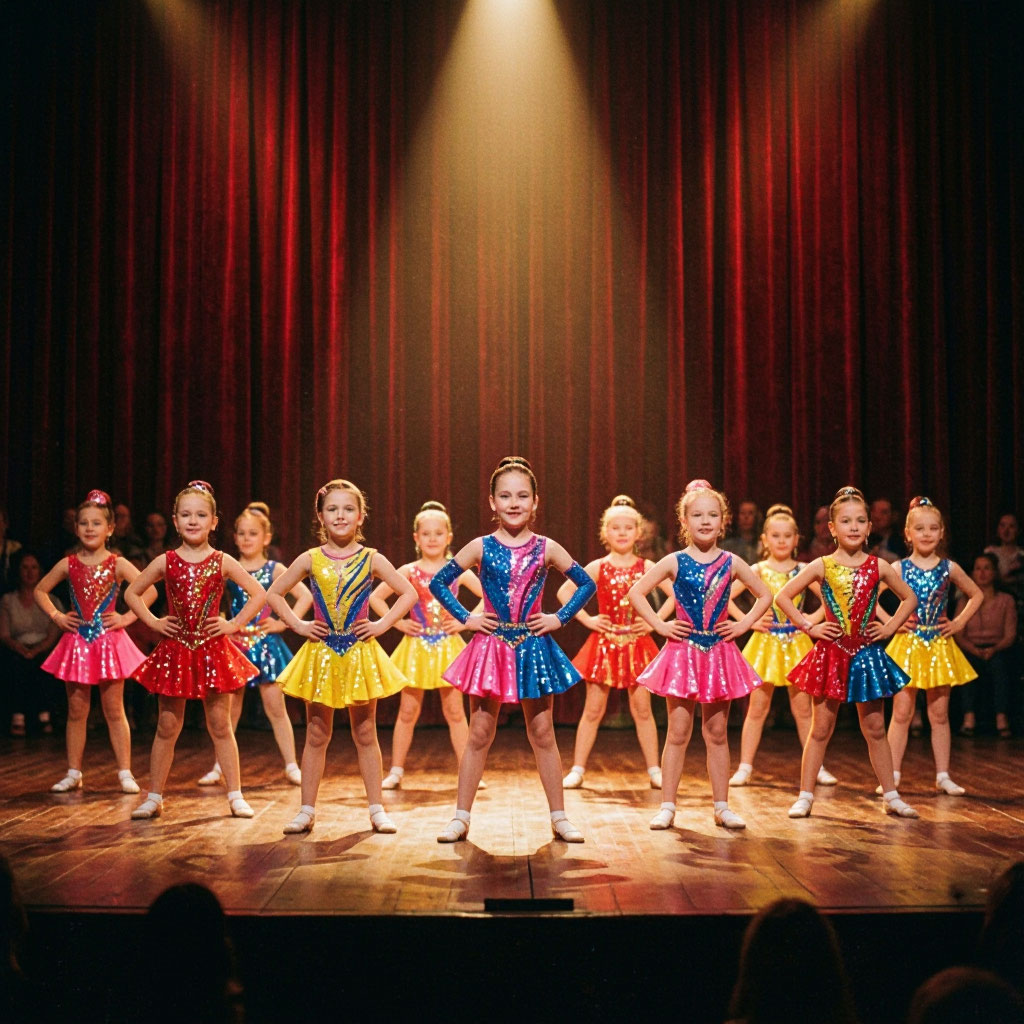
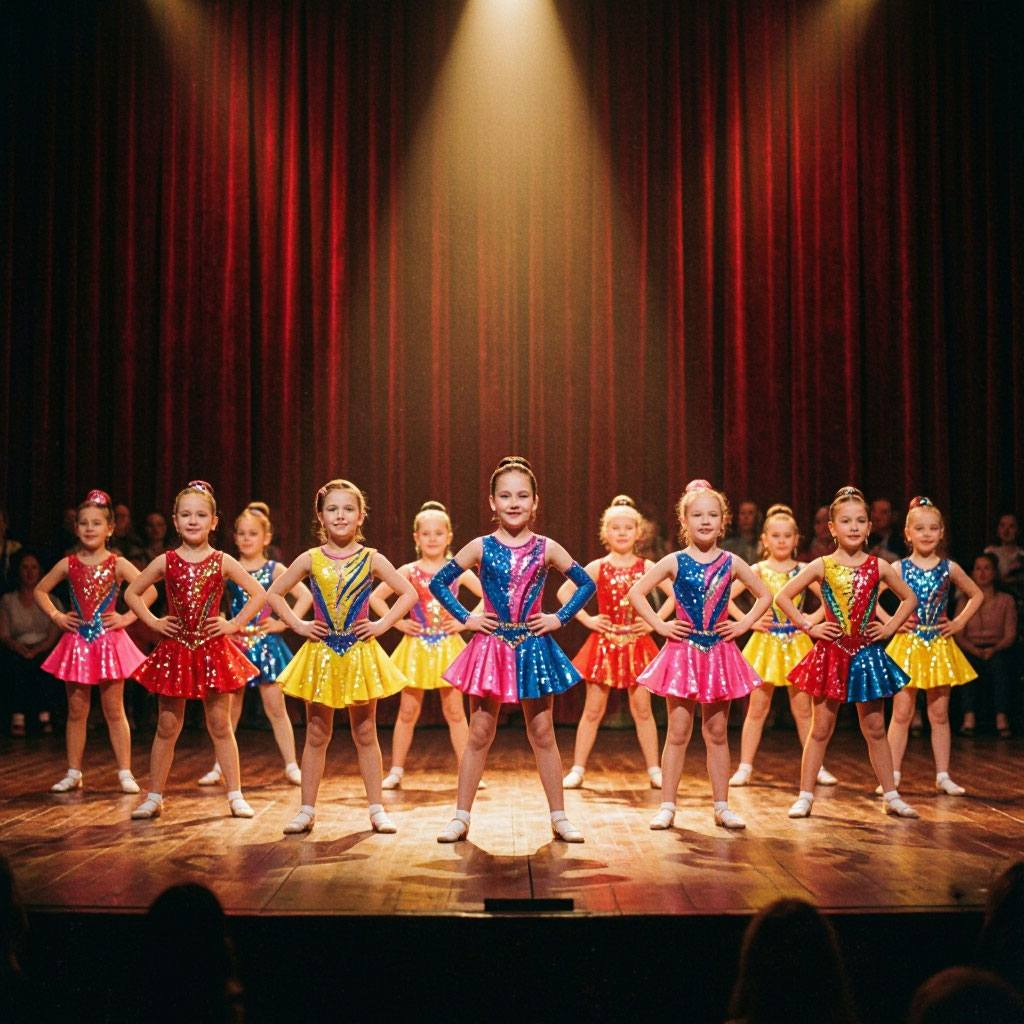
Сжаты тяжёлые фото, крупнее ссылки на мессенджеры
- Семь jpg в img/ пересохранены с качеством 72: вместе около 0,9 МБ вместо 2,8 МБ, размеры в пикселях прежние
- Ссылки WhatsApp и Telegram удобнее нажимать на телефоне

Changed region(s): [[0.3125, 0.5625, 0.375, 0.6562], [0.8125, 0.5625, 0.8438, 0.5938], [0.5, 0.625, 0.5312, 0.6562]]

diff --git a/index.html b/index.html
@@ -93,7 +93,7 @@ h2, .hero-lead, .sign, .free .big, .signup .tel, .addr { transform: skewX(-8deg)
 .btn-pink { background: var(--pink); color: #2a0b1b; box-shadow: 0 8px 28px rgba(255,79,160,.35); }
 .btn-pink:hover { transform: translateY(-2px); box-shadow: 0 12px 36px rgba(255,79,160,.55); }
 .text-links { display: flex; flex-wrap: wrap; gap: 8px 22px; margin: 18px 0 0; }
-.text-links a { color: var(--ink); text-decoration-color: var(--cyan); text-underline-offset: 5px; text-decoration-thickness: 2px; }
+.text-links a { display: inline-block; padding: 10px 0; color: var(--ink); text-decoration-color: var(--cyan); text-underline-offset: 5px; text-decoration-thickness: 2px; }
 .text-links a:hover { color: var(--cyan); }
 
 /* баннер и шапка */
